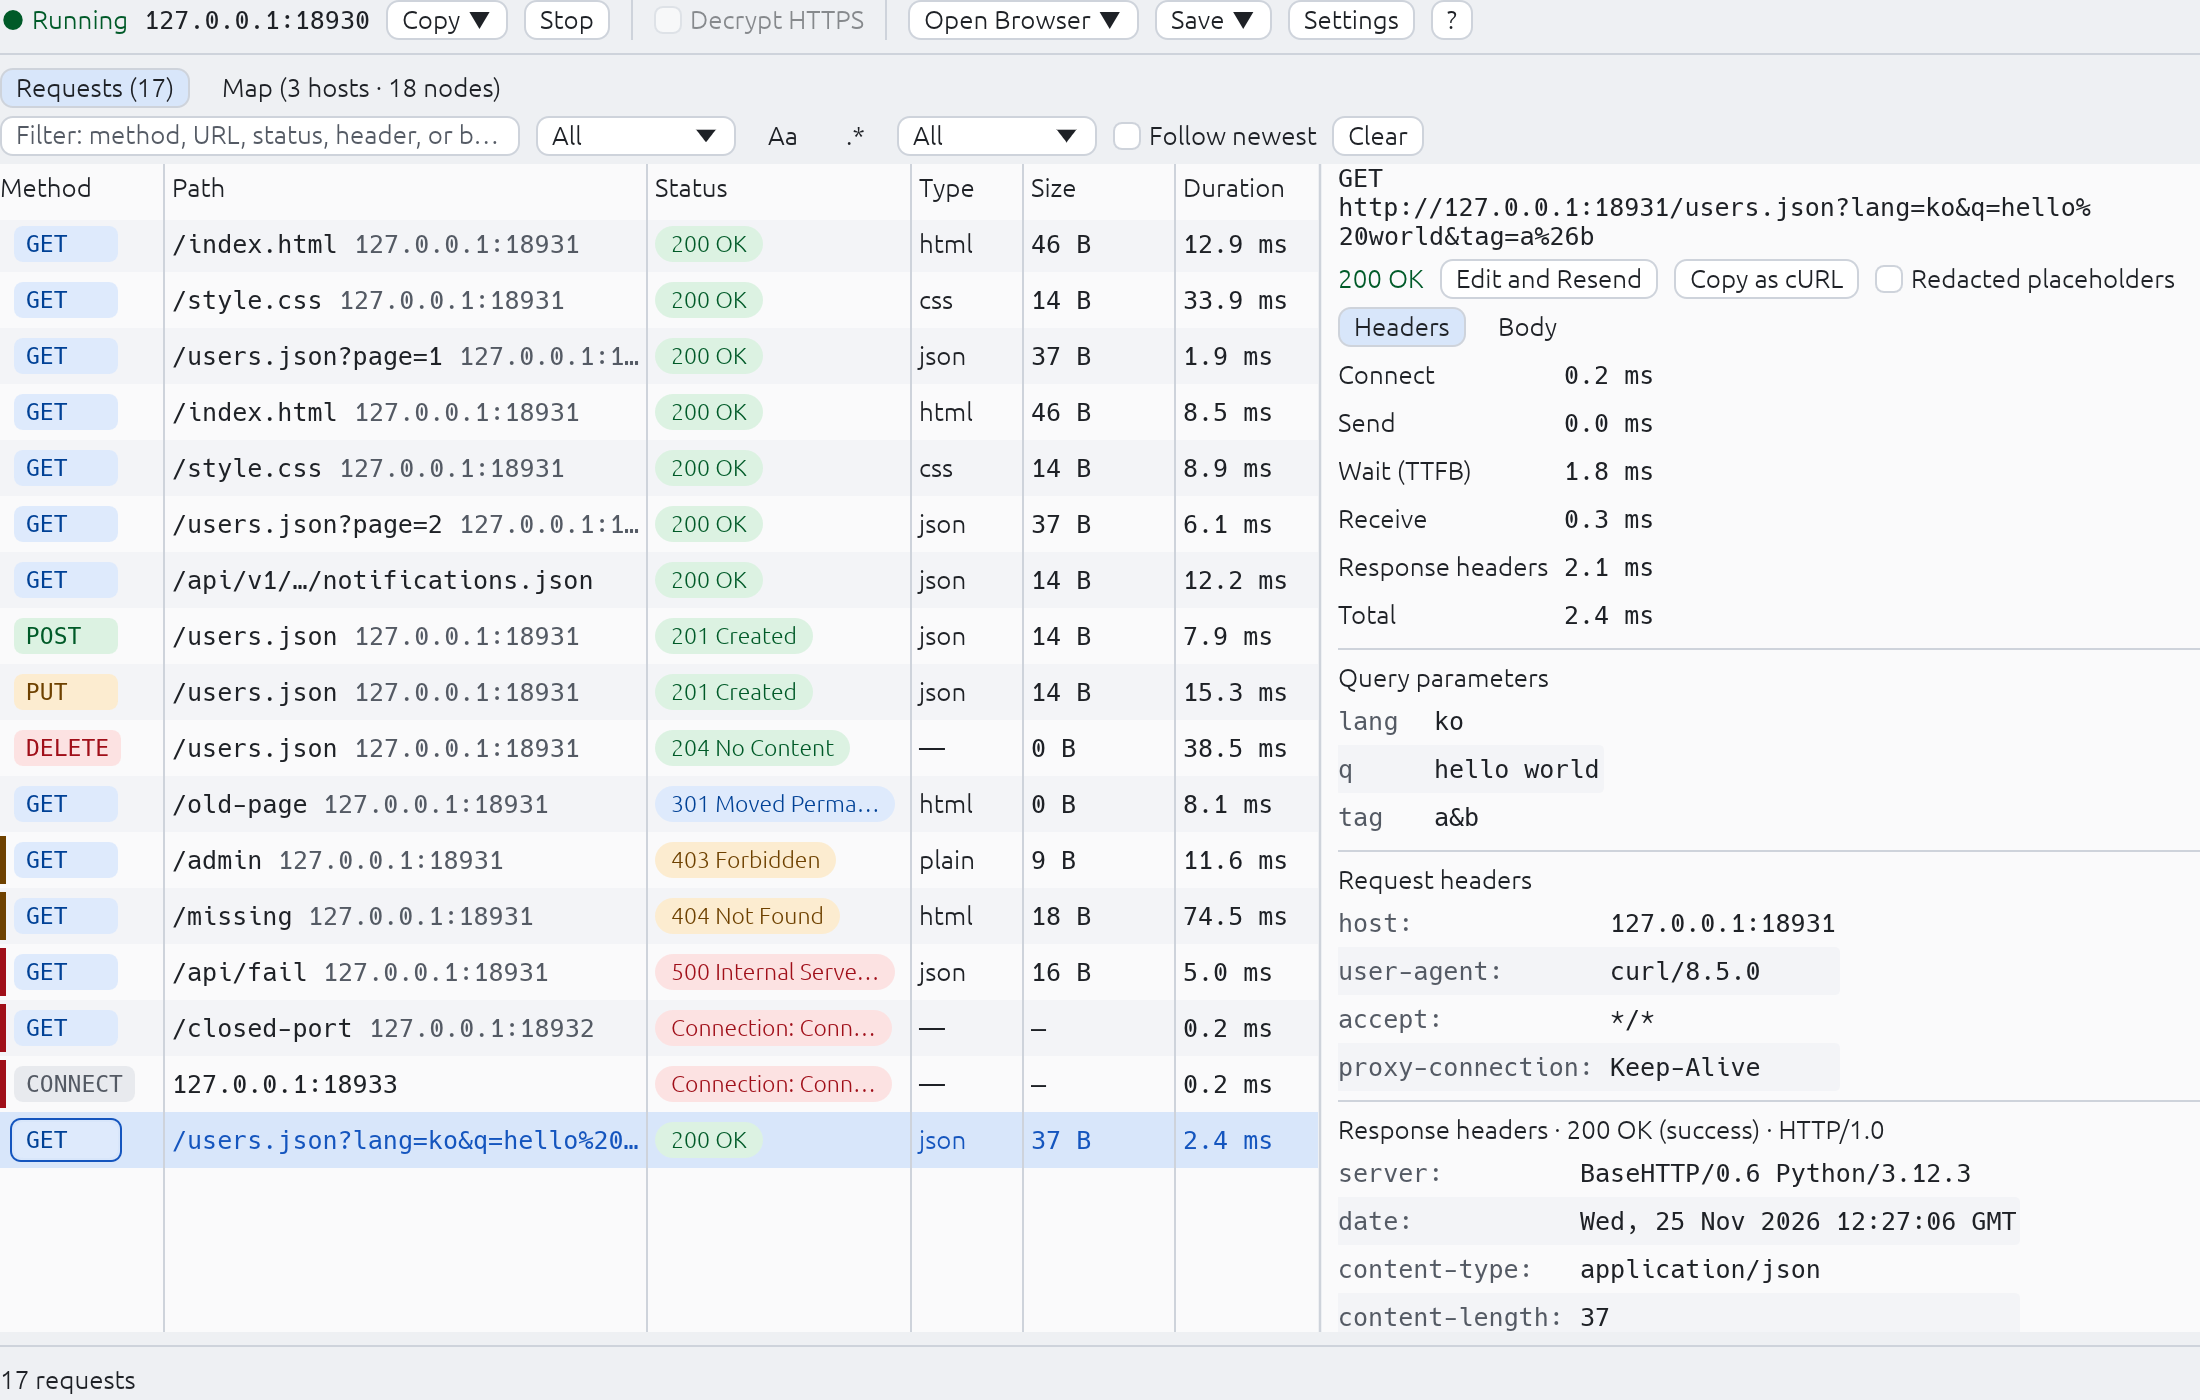
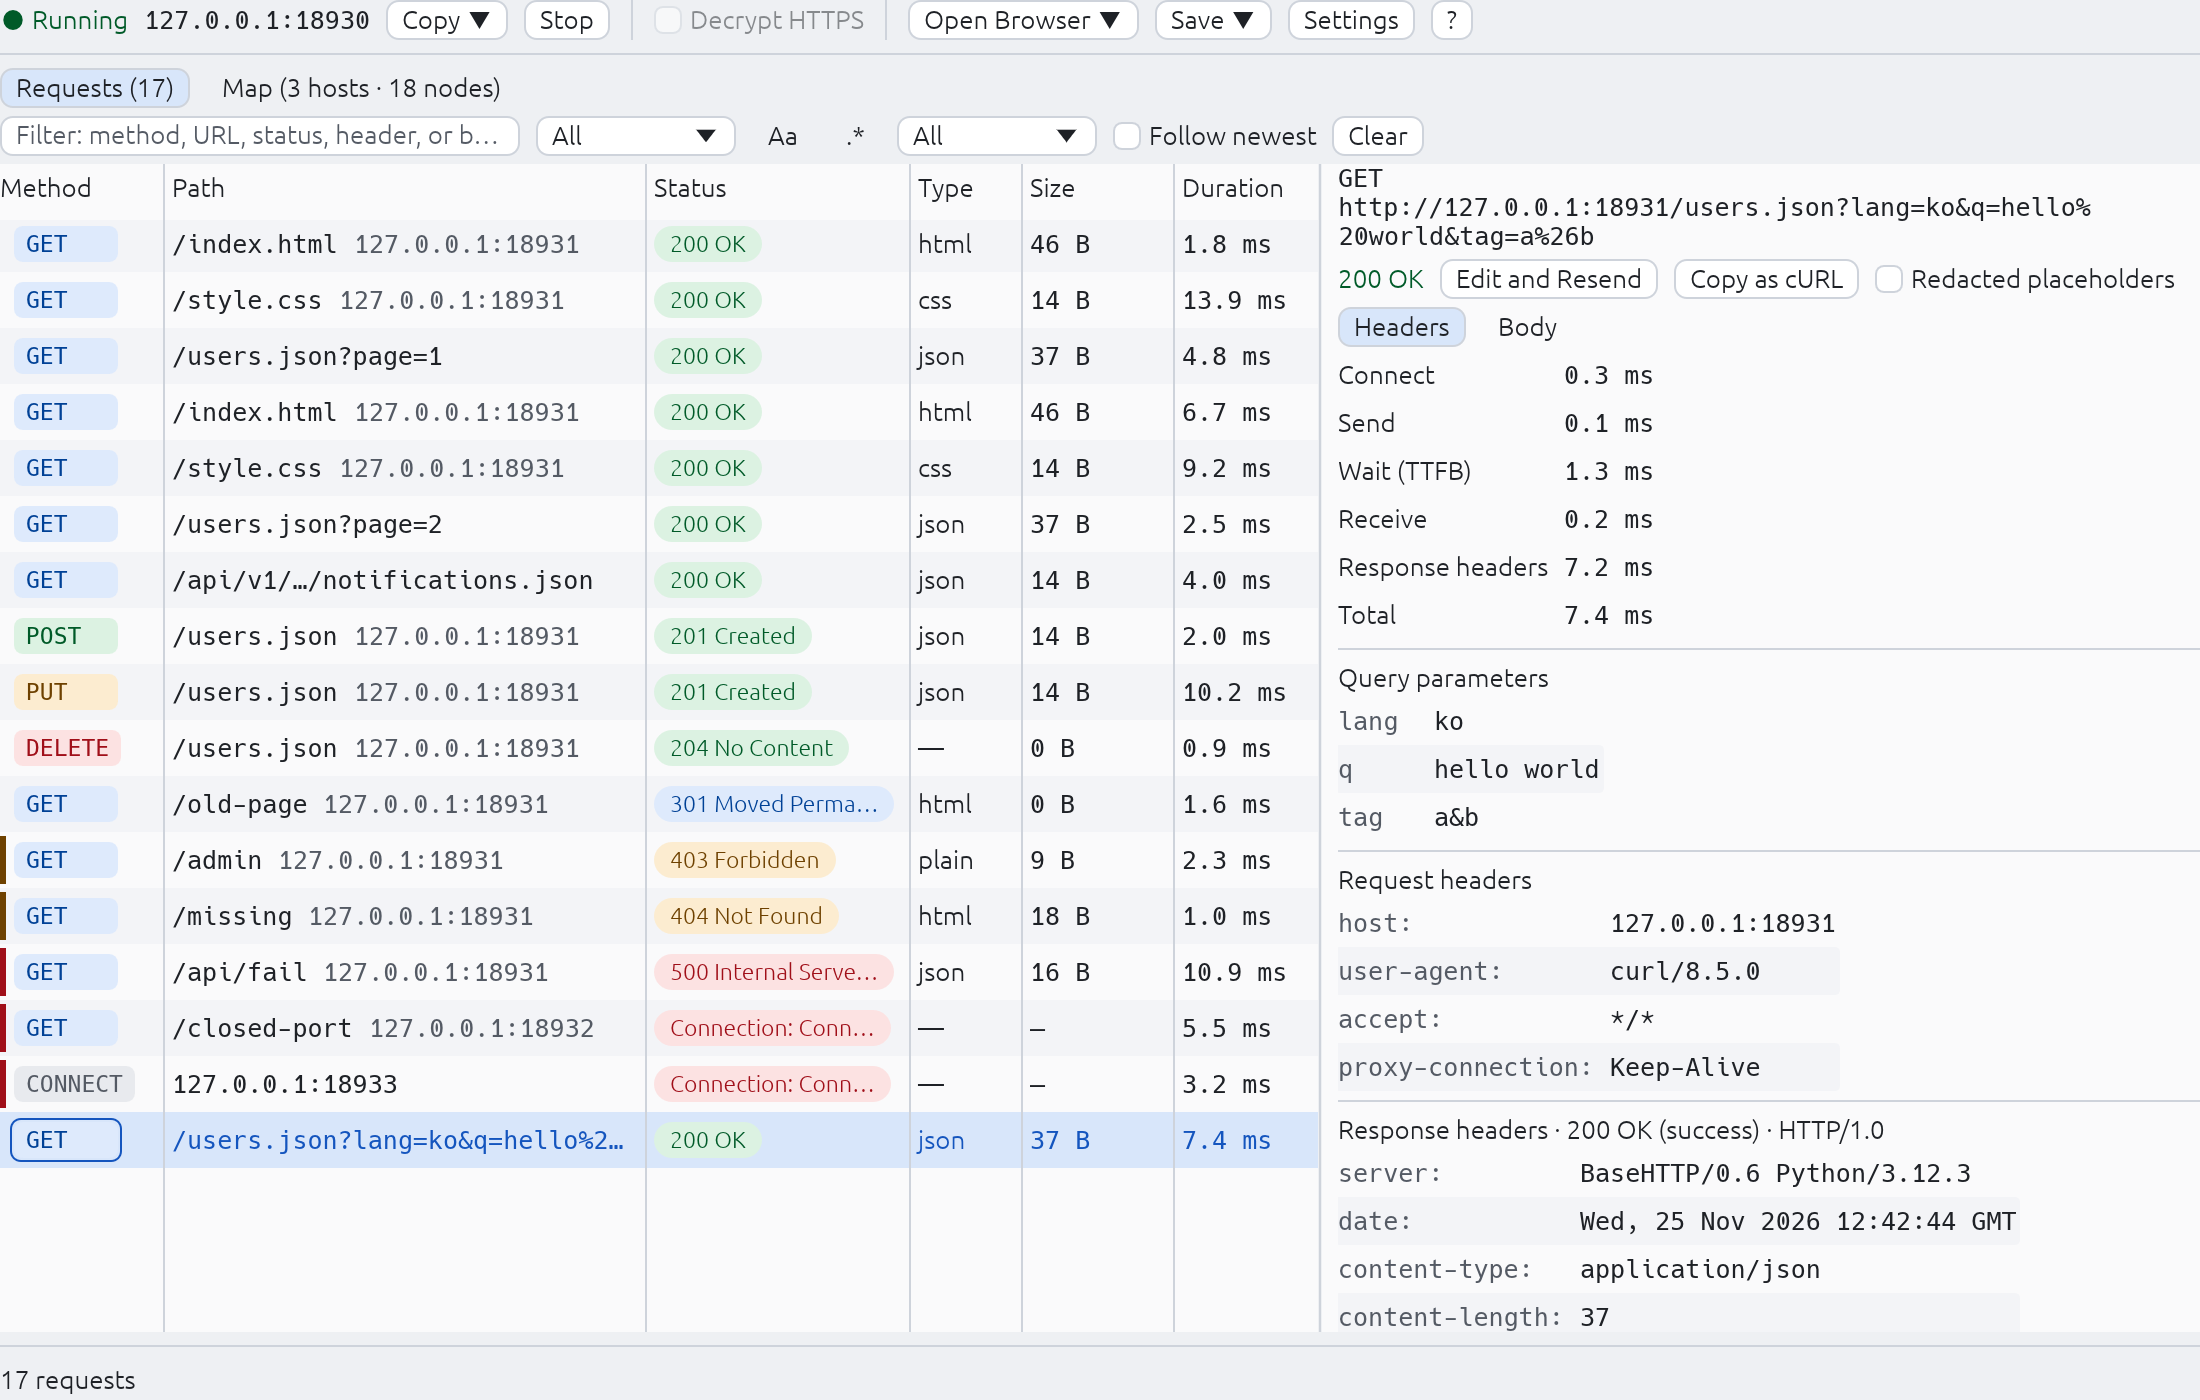
fix: show a request host whole or not at all
A host cut to fit, such as `127.0.0.1:1…`, reads like a different port.
The list now shows the host only when all of it fits after the path,
and hides it otherwise; the full URL stays in the row tooltip.

- Move the decision into `target_view::host_fits`, a pure function with
  unit tests, and count the real `item_spacing.x` gap (rounded up to
  whole characters) instead of a one-character guess.
- Limit the alert edge to 400-599, so nonstandard 6xx-9xx codes are no
  longer marked like errors.
- Recapture the request list and header screenshots, add a CHANGELOG
  entry, and remove `theme-dark-ca.png`, which nothing references now.

Choice: hide rather than shorten the host. A shortened host can only
be safe if the port is never cut, which needs host-aware elision; the
tooltip already shows the full URL, so hiding is simpler and never
misleading.

diff --git a/src/ui/requests/request_table.rs b/src/ui/requests/request_table.rs
@@ -11,7 +11,7 @@ use crate::ui::dialogs::copy_curl;
 use crate::ui::requests::outcome_view::{
     alert_tone, outcome_summary, outcome_text, outcome_tone, status_rank,
 };
-use crate::ui::requests::target_view::{TargetParts, middle_ellipsis, shared_host};
+use crate::ui::requests::target_view::{TargetParts, host_fits, middle_ellipsis, shared_host};
 use crate::ui::style::badge::Badge;
 use crate::ui::style::tokens::Space;
 
@@ -19,8 +19,6 @@ const ROW_HEIGHT: f32 = 24.0;
 const HEADER_HEIGHT: f32 = 24.0;
 /// Width of the colored edge that marks error and failure rows.
 const ALERT_EDGE_WIDTH: f32 = 3.0;
-/// Fewest host characters worth showing beside a path.
-const MIN_HOST_CHARS: usize = 8;
 
 /// Sortable column of the request list.
 #[derive(Clone, Copy, Debug, Eq, PartialEq)]
@@ -577,18 +575,22 @@ fn target_cell(ui: &mut egui::Ui, record: &Exchange, show_host: bool) {
     #[expect(
         clippy::cast_possible_truncation,
         clippy::cast_sign_loss,
-        reason = "The cell width is nonnegative and UI-sized, and only whole characters fit"
+        reason = "Widths are nonnegative and UI-sized; the cell holds only whole characters and the gap rounds up"
     )]
-    let max_chars = (ui.available_width() / char_width.max(1.0)) as usize;
+    let (max_chars, gap_chars) = {
+        let char_width = char_width.max(1.0);
+        (
+            (ui.available_width() / char_width) as usize,
+            (ui.spacing().item_spacing.x / char_width).ceil() as usize,
+        )
+    };
     let primary = middle_ellipsis(parts.primary(), max_chars);
-    // A host cut down to a few characters says nothing, so it is left out.
-    let room_for_host = max_chars.saturating_sub(primary.chars().count() + 1);
+    let host = parts
+        .secondary()
+        .filter(|&host| show_host && host_fits(max_chars, &primary, gap_chars, host));
     ui.add(egui::Label::new(RichText::new(primary).monospace()).truncate())
         .on_hover_text(target);
-    if show_host
-        && let Some(host) = parts.secondary()
-        && room_for_host >= host.chars().count().min(MIN_HOST_CHARS)
-    {
+    if let Some(host) = host {
         ui.add(egui::Label::new(RichText::new(host).monospace().weak()).truncate())
             .on_hover_text(target);
     }

diff --git a/src/ui/requests/target_view.rs b/src/ui/requests/target_view.rs
@@ -57,6 +57,13 @@ pub(super) fn shared_host<'a>(mut targets: impl Iterator<Item = &'a str>) -> Opt
     (!host.is_empty() && targets.all(|target| TargetParts::of(target).host == host)).then_some(host)
 }
 
+/// Whether the whole `host` fits after `primary` and a gap of `gap_chars`
+/// within `max_chars`. A cut host such as `127.0.0.1:1…` reads like another
+/// port, so the list shows the host whole or not at all.
+pub(super) fn host_fits(max_chars: usize, primary: &str, gap_chars: usize, host: &str) -> bool {
+    primary.chars().count() + gap_chars + host.chars().count() <= max_chars
+}
+
 /// Shortens `path` to at most `max_chars` characters by eliding its middle,
 /// so that the start of the path and its last segment stay readable, as in
 /// `/api/v1/…/users.json`. A last segment too long to keep, such as a long
@@ -132,6 +139,17 @@ mod tests {
         assert_eq!(shared_host(mixed.into_iter()), None);
         assert_eq!(shared_host(["/origin-form"].into_iter()), None);
         assert_eq!(shared_host(std::iter::empty()), None);
+    }
+
+    #[test]
+    fn shows_a_host_only_when_it_fits_whole() {
+        let host = "127.0.0.1:18931";
+        // 11 + 1 + 15 = 27 characters.
+        assert!(host_fits(27, "/users.json", 1, host));
+        assert!(!host_fits(26, "/users.json", 1, host));
+        // A wider gap leaves less room for the host.
+        assert!(!host_fits(27, "/users.json", 2, host));
+        assert!(host_fits(4, "", 0, "a.b:"));
     }
 
     #[test]

diff --git a/src/ui/requests/outcome_view.rs b/src/ui/requests/outcome_view.rs
@@ -76,11 +76,11 @@ pub(crate) fn outcome_tone(outcome: &Outcome) -> Tone {
     }
 }
 
-/// Tone of the edge mark that makes a request stand out in the list: client
-/// errors, server errors, and failed connections or tunnels.
+/// Tone of the edge mark that makes a request stand out in the list: 4xx
+/// client errors, 5xx server errors, and failed connections or tunnels.
 pub(super) fn alert_tone(outcome: &Outcome) -> Option<Tone> {
     match outcome {
-        Outcome::Response(response) if response.status().as_u16() >= 400 => {
+        Outcome::Response(response) if matches!(response.status().as_u16(), 400..=599) => {
             Some(outcome_tone(outcome))
         }
         Outcome::Failed { .. } => Some(Tone::Danger),
@@ -178,6 +178,8 @@ mod tests {
             (301, Tone::Info, None),
             (404, Tone::Warning, Some(Tone::Warning)),
             (503, Tone::Danger, Some(Tone::Danger)),
+            // Nonstandard codes are not errors.
+            (600, Tone::Info, None),
         ] {
             let record = ExchangeBuilder::http(Method::GET, "http://example.test/")?
                 .respond(ResponseFixture::new(StatusCode::from_u16(status)?))?;

diff --git a/CHANGELOG.md b/CHANGELOG.md
@@ -9,6 +9,11 @@
 - Linux x86_64용 `.deb` 패키지(`http-inspector`)를 배포한다. 실행 파일을 `/usr/bin/http-proxy`에 설치하고 애플리케이션 메뉴 항목과 아이콘을 등록한다.
 - 첫 공개 버전에 포함될 기능: HTTP/1.1 요청·응답 스트리밍 기록, 선택적 HTTPS 복호화와 검사 브라우저, 요청 재전송과 cURL 복사, URL 맵과 관계 그래프, 로그·본문·HAR 1.2 저장.
 
+### 변경
+
+- 요청 목록을 읽기 쉽게 바꾼다. 메서드를 색 배지로, 상태를 글자 그대로 둥근 표시로 보여 준다. 열 이름이 `Host / Path`에서 `Path`로 바뀌며, 경로를 먼저 보여 주고 호스트는 흐린 글자로 붙인다. 모든 요청이 같은 호스트면 호스트를 열 제목 옆에 한 번만 표시한다. 긴 경로는 가운데를 줄이고, 4xx·5xx·실패한 요청은 행 왼쪽 띠로 강조한다.
+- 상태 글자색 기준을 바꾼다. 3xx는 파랑, 4xx는 노랑, 정상 터널은 회색으로 표시한다. 상세 패널의 헤더·쿼리 이름은 흐린 글자로 표시해 값이 먼저 보이게 하고, 화면 표면·간격·모서리·글자 크기를 밝은 테마와 어두운 테마 모두에서 정리한다.
+
 ### 수정
 
 - 프록시를 중지할 때 열려 있던 `CONNECT` 터널이 `Open` 상태로 남거나 전체 세션 로그에 종료 기록이 누락되던 문제와, 종료 중 진행 중인 요청·터널이 간헐적으로 실패로 기록되던 문제를 수정한다.
